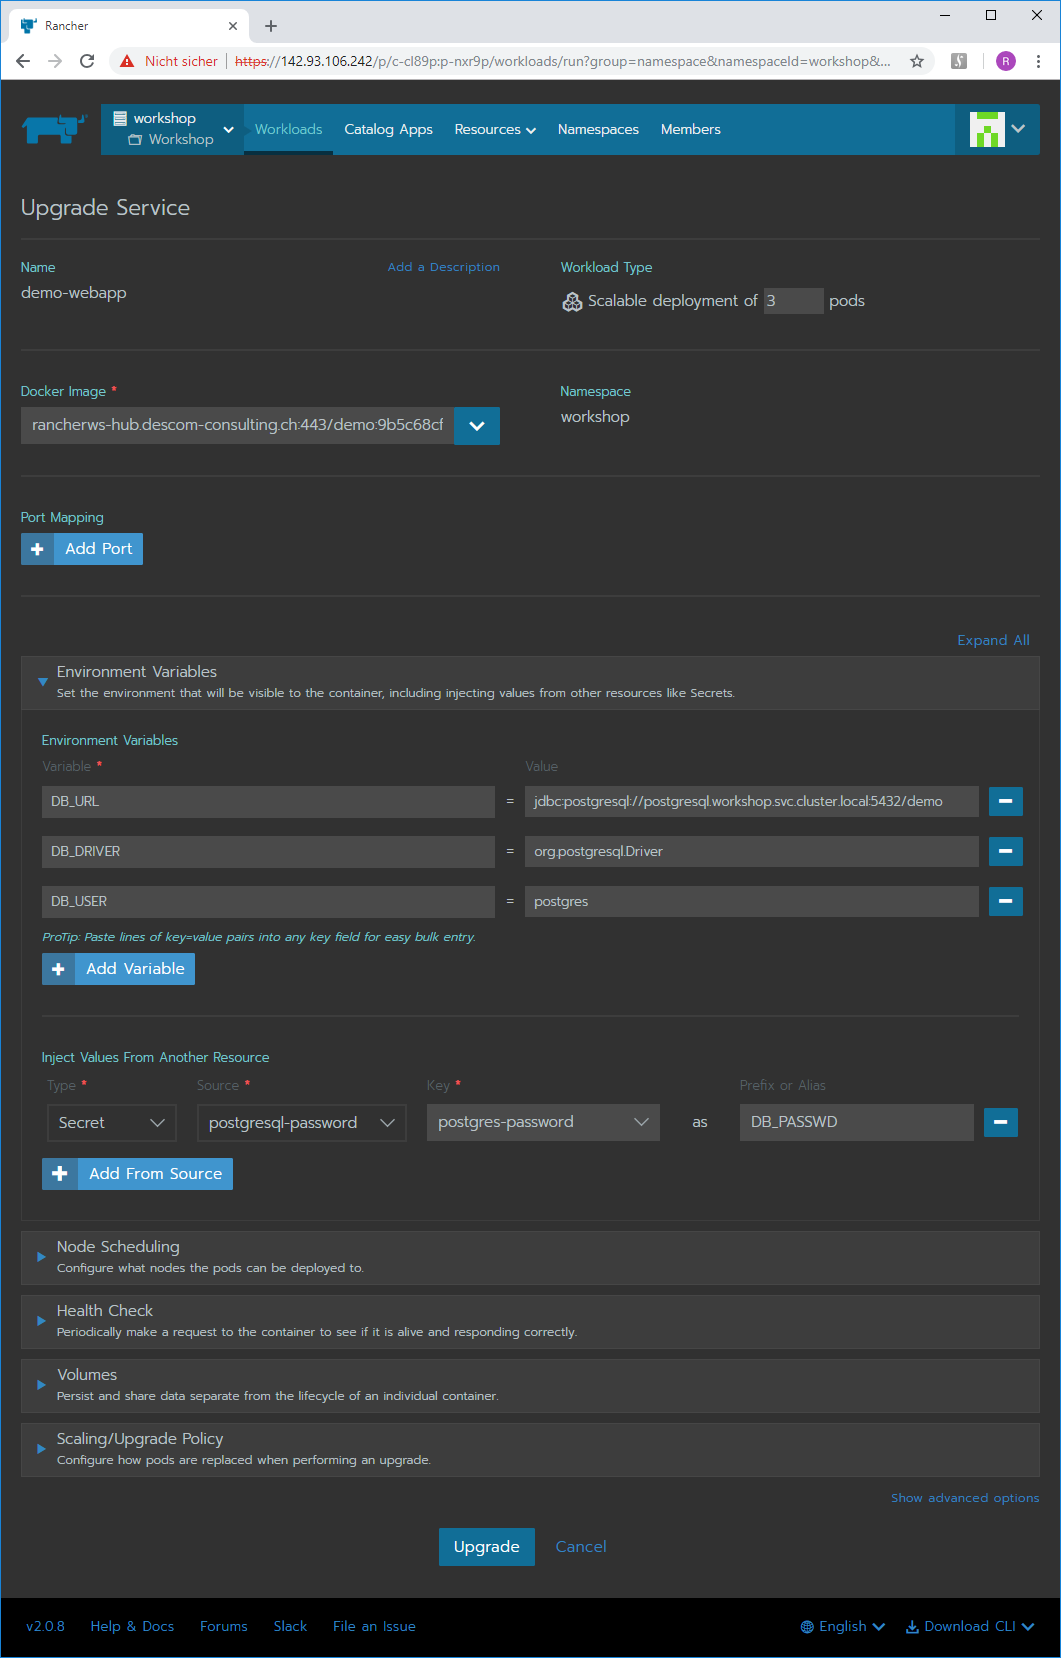
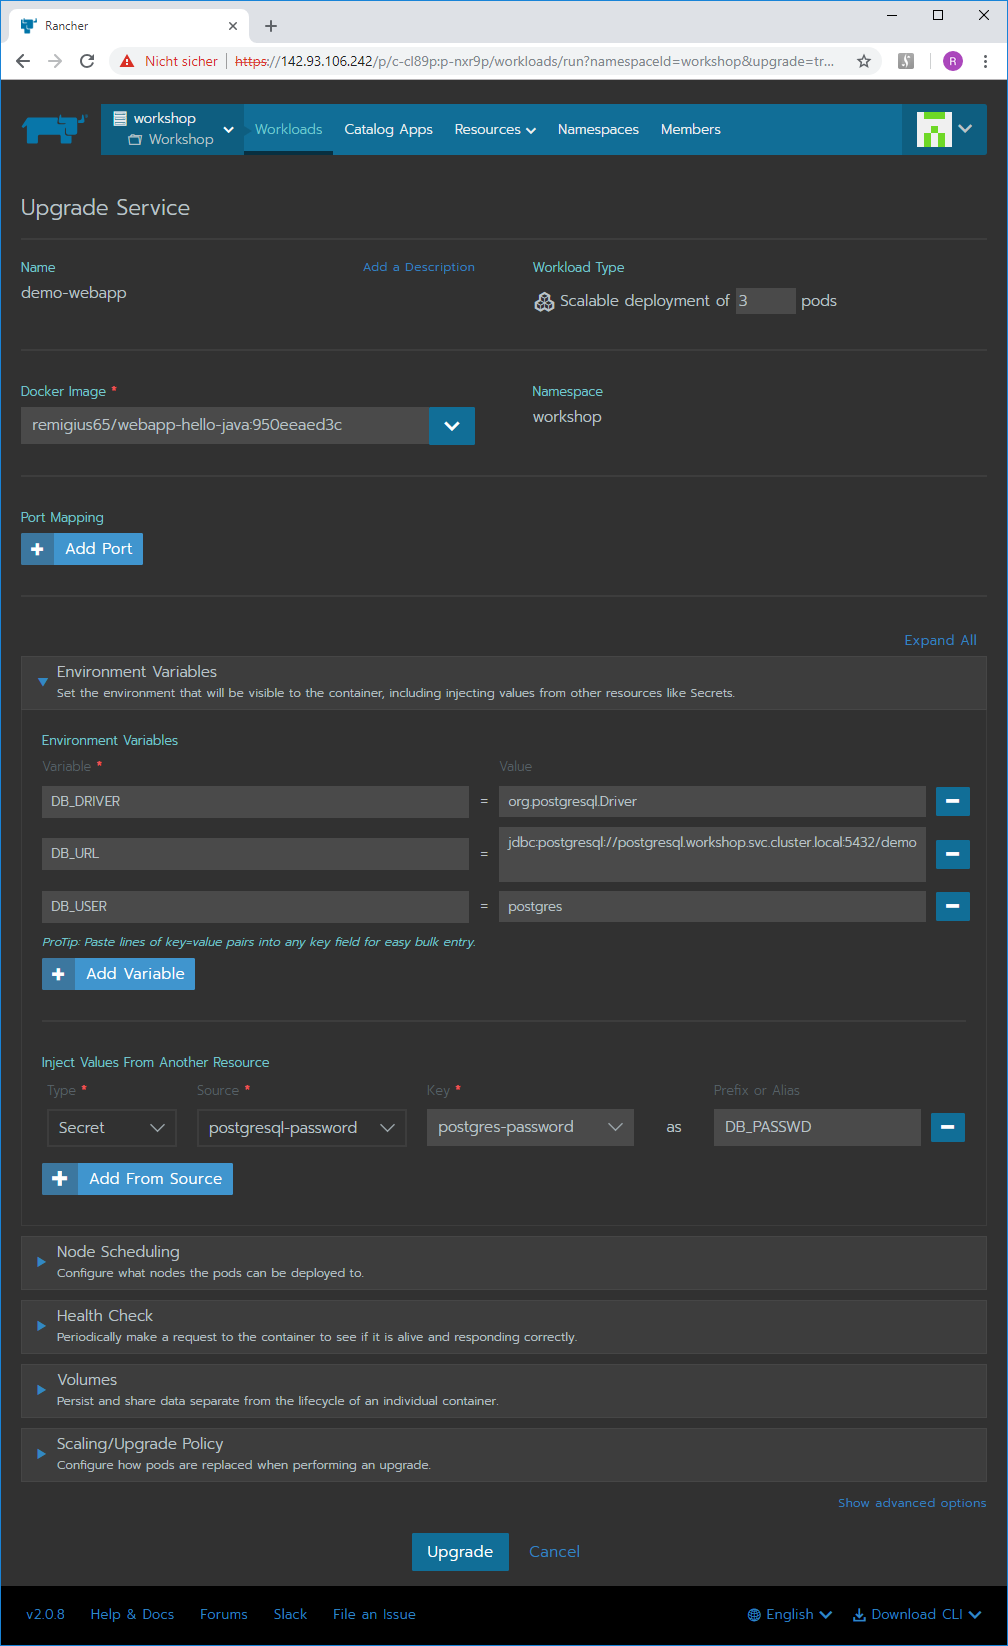
update documentation after adding the image of the demo webapp to docker hub

diff --git a/02-stateless-workloads.md b/02-stateless-workloads.md
@@ -116,21 +116,32 @@ navigate to the newly created project using the `Global` dropdown and click on `
 add a private registry
 ----------------------
 
-it is publicly available both on [github](https://github.com/Remigius2011/webapp-hello-java) and on [docker hub]().
-during the workshop, I have also deployed it on a private registry which we can now add to our rancher server.
+for the purposes of this workshop, creating a private registry is not strictly necessary, as the demo webapp
+is available as a [public image on docker hub](https://hub.docker.com/r/remigius65/webapp-hello-java/).
+the source is published on [github](https://github.com/Remigius2011/webapp-hello-java).
+
+if you have access to a private registry you can now add to your rancher server.
 on the `Resources` dropdown, click on `Registries`:
+
+***note:*** to run a provate registry without having to add it as *insecure regiytry* to each docker host, youmust have an official
+server certificate for it.
 
 ![registries](img/registries.png "registries")
 
 then on `Add Registry`, which displays the following page to enter the parameters:
 
-* **name:** `rancherws-hub`
-* **address:** select `Custom` and enter `rancherws-hub.descom-consulting.ch:443`
-* **credentials:** user: `rancher`, password will be given to workshop participants
+* **name:** enter a name for your registry
+* **address:** select `Custom` and enter host name and port of the registry (e.g. `myregistry.mydomain.com:443`)
+* **credentials:** enter your user id and password here
 
-![rancherws hub](img/rancherws-hub.png "rancherws hub")
+![private registry](img/private-registry.png "private registry")
 
 then click `Save` to save the registry parameters.
+
+see also:
+
+* https://docs.docker.com/registry/
+* https://hub.docker.com/_/registry/
 
 run the webapp
 --------------
@@ -139,7 +150,7 @@ now you are ready to deploy the demo webapp by clicking the `Deploy` button. ini
 
 * **name:** `demo-webapp`
 * **namespace:** verify it is `workshop` (the newly created one - must belong to the project in which the private registry was defined)
-* **image:** `rancherws-hub.descom-consulting.ch:443/demo:fce3132d7d`
+* **image:** `remigius65/webapp-hello-java:950eeaed3c`
 
 after clicking `Launch`, you see the usual status changes during the deployment until the workload reaches `Active` state.
 

diff --git a/04-maintenance.md b/04-maintenance.md
@@ -21,7 +21,7 @@ upgrading workloads
 to upgrade an existing workload to a new version of an image (typically available
 as a new tag in an existing repo of the same registry), you only have to change the image
 tag. navigate to the list of workloads of the `Workshop` project, then enter the `Edit` menu
-via the three dot button. then change the current image tag (should be `fce3132d7d`) to `040a9f2bd9` in the
+via the three dot button. then change the current image tag (should be `950eeaed3c`) to `954218a9b9` in the
 image field and click the `Upgrade` button. now you can watch the replacement of existing
 pods by new ones created from the new image. after all is finished, the greeting will have
 changed to 'Howdy' instead of 'Hello'. note that - as we had three pods running

diff --git a/readme.md b/readme.md
@@ -6,6 +6,15 @@ welcome to the workshop.
 
 ***note:*** using strictly lower case here is *intended*.
 
+important notice
+----------------
+
+the image for the demo webapp used in the workshop is now available as a
+[public image on docker hub](https://hub.docker.com/r/remigius65/webapp-hello-java/).
+it will still be available foir a few weeks on the private registry used during
+BaselOne, but ***please update the image in your rancher workload*** - otherwise future
+upgrades of any kind may fail.
+
 introduction
 ------------
 
